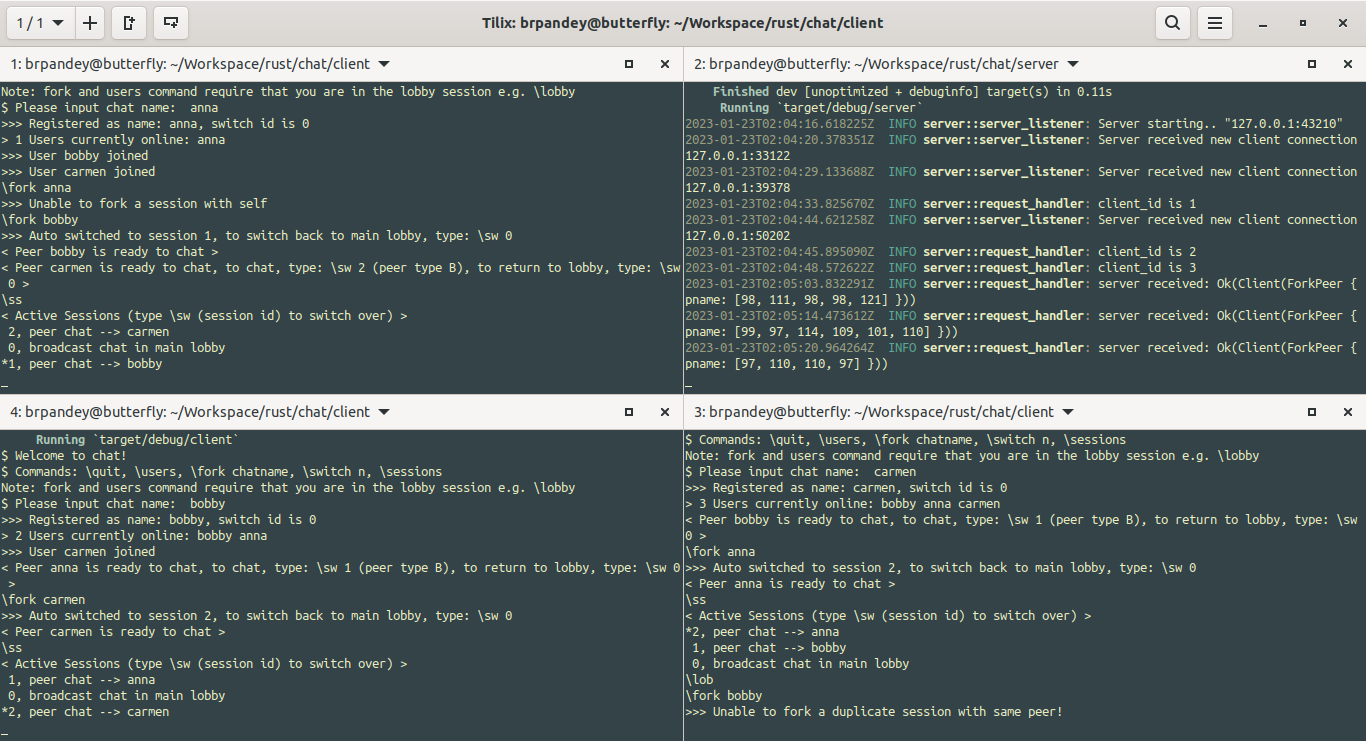
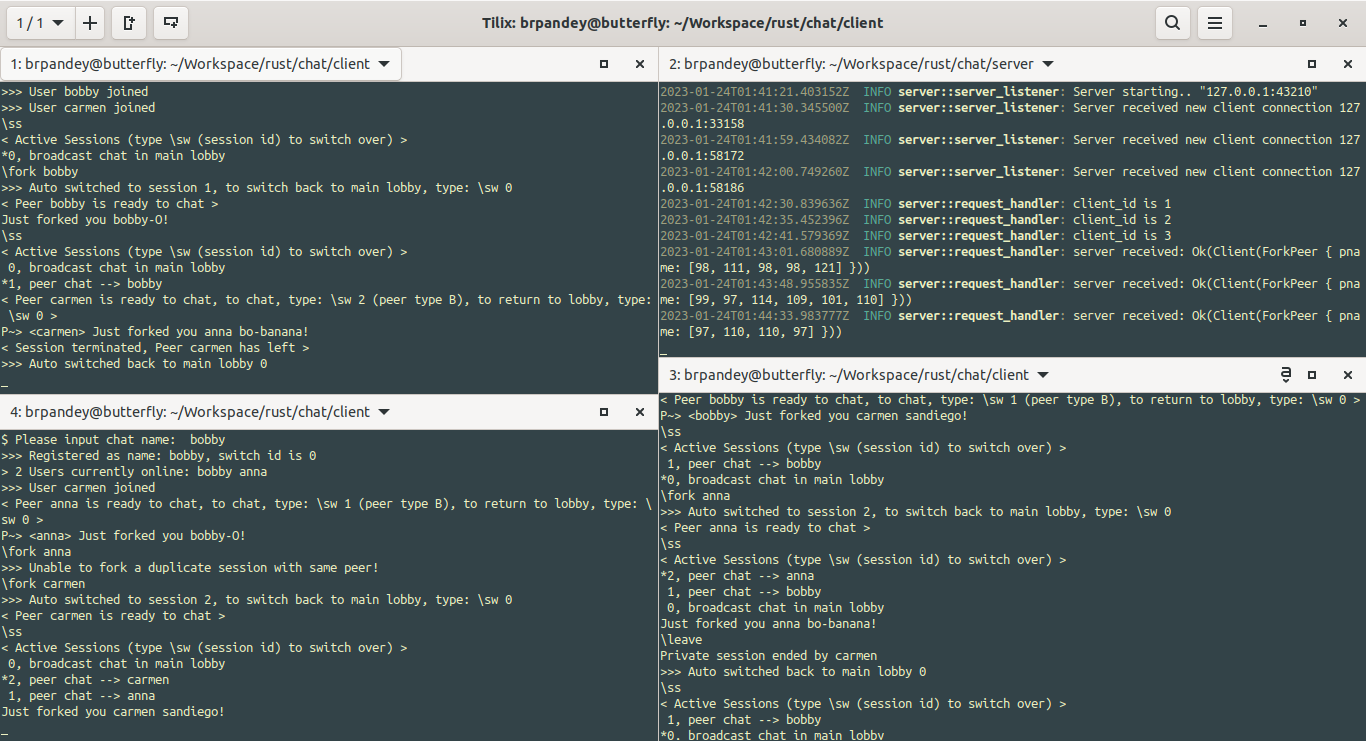
Updated chat session image

Changed region(s): [[0.0, 0.0621, 1.0, 1.0]]

diff --git a/README.md b/README.md
@@ -50,13 +50,13 @@ Chat session - End
 
 Chat session - Multiple forks and multiple peer sessions
 
-* Notice ---> Here A (anna) -> B (bobby) -> C (carmen) -> A (anna)
+* Notice ---> A (anna) -> B (bobby) -> C (carmen) -> A (anna)
 
-* anna can privately communicate with both bobby and carmen
+* anna can privately chat with either bobby and carmen
 
-* bobby can privately communicate with both anna and carmen
+* bobby can privately chat with either anna and carmen
 
-* carmen can privately communicate with both anna and bobby
+* carmen can privately chat with either anna and bobby
 
 <p float="left">
   <img src='images/chat3.png' width='845' height='450'/> 
@@ -65,9 +65,9 @@ Chat session - Multiple forks and multiple peer sessions
 
 Lastly,
 
-* PA> means peer session in A mode (e.g. current user initiated it, e.g. sent the \fork)
+* P-> means peer session in A mode (e.g. current user initiated it, e.g. sent the \fork)
 
-* PB> means peer session in B mode (e.g. current user received a peer session request from its local peer server)
+* P~> means peer session in B mode (e.g. current user received a peer session request from its local peer server)
 
 * When \fork-ing, can't fork again to same peer name with an already active session! Can't also self fork!
 
